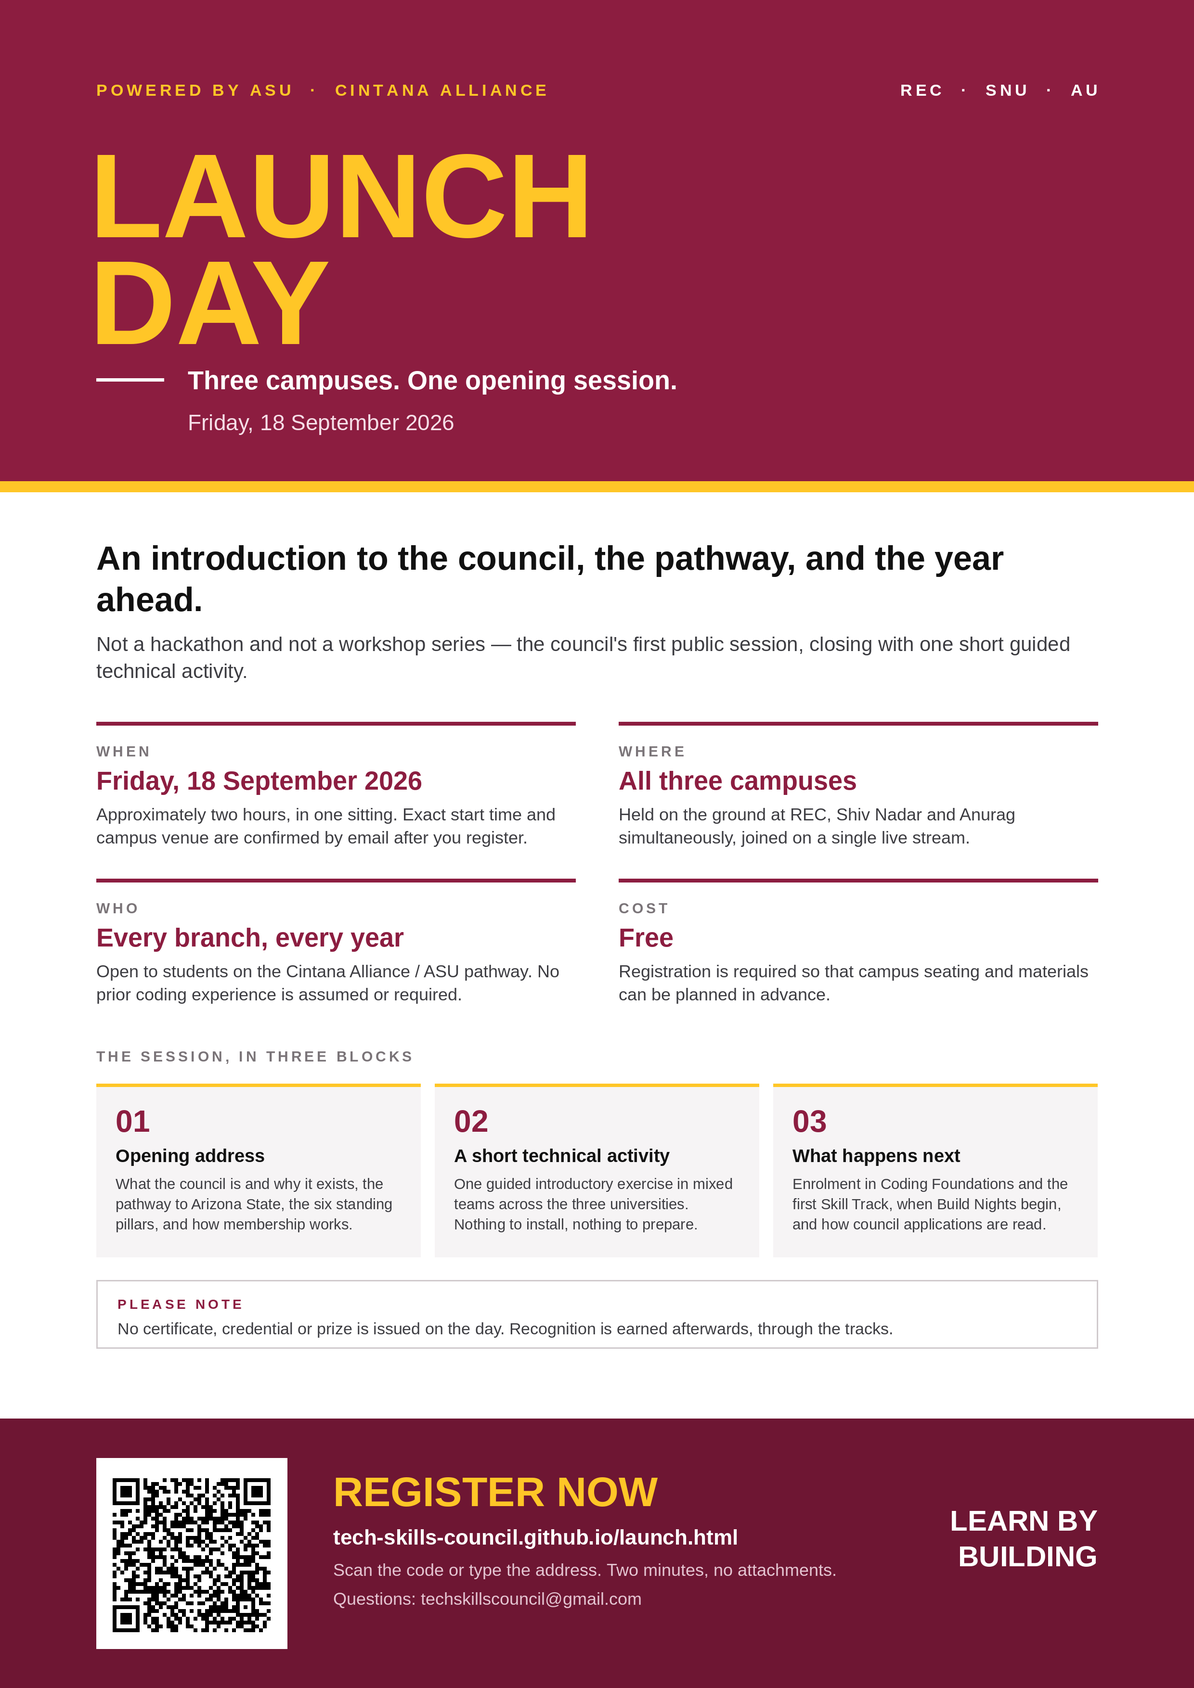
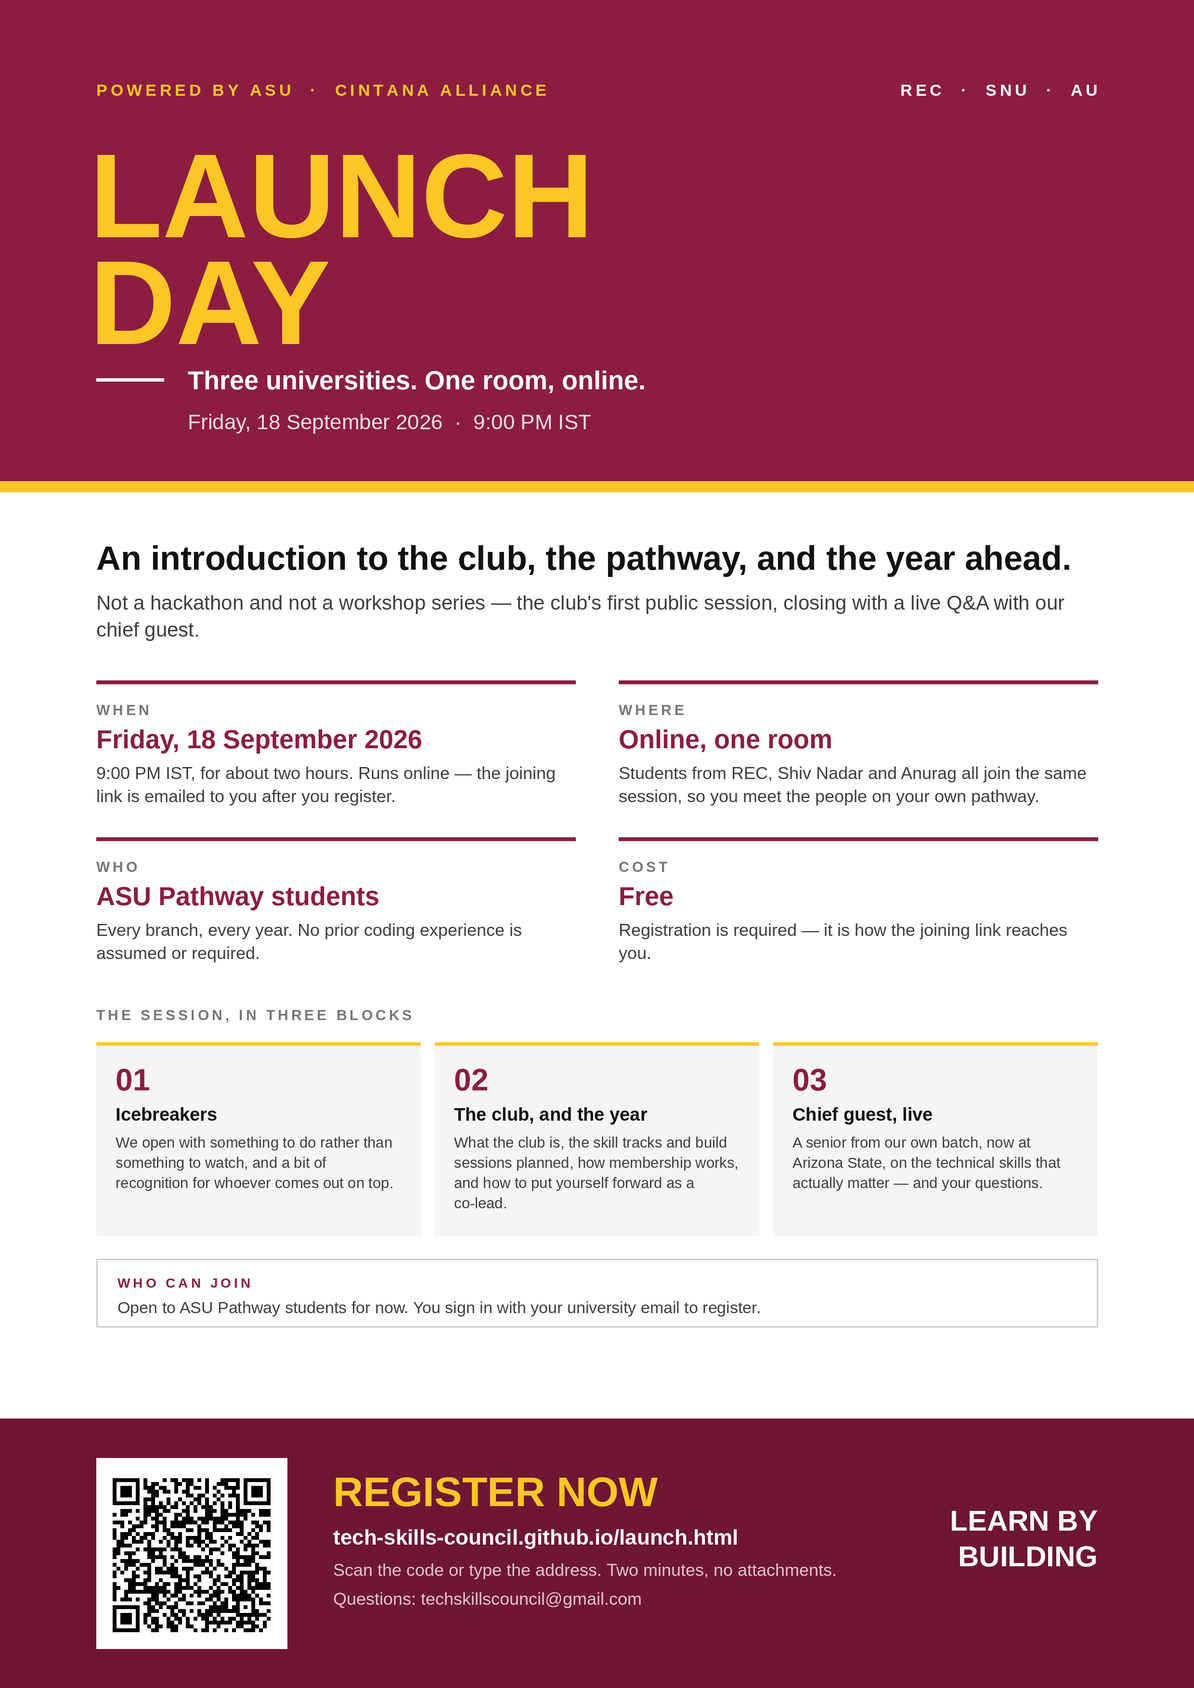
Correct the orientation: online at 9 PM, not three campuses in person
The site described a different event from the one being run. It said the
opening session was held "on the ground at REC, Shiv Nadar and Anurag
simultaneously", asked whether you could bring a laptop, asked about
dietary needs for refreshments, and promised a campus venue by email.

The session is fully online, Friday 18 September at 9:00 PM IST, on a
single call. Registrations open today, so a student reading the old copy
would have planned to walk into a campus building at 9 PM.

Corrected across the landing page, the registration page, the thank-you
page and the poster:
- "held at three campuses at once" -> online, one room, three universities
- the three blocks now match the actual run of show: icebreakers, the
  club and the year ahead, then a live Q&A with the chief guest
- removed the laptop and refreshments questions, which only make sense
  for an in-person event
- venue-by-email copy replaced with joining-link-by-email
- start time surfaced (9:00 PM IST) instead of being unstated
- poster regenerated from the generator; QR verified to still resolve

The joining link is deliberately not published anywhere on the site — it
goes out by email after registration, which is what makes the pathway
restriction meaningful.

Claude-Session: https://claude.ai/code/session_01WunSvQ44yq1B1vofqLx1dA

Changed region(s): [[0.0621, 0.3107, 0.9004, 0.8079], [0.1863, 0.2175, 0.5589, 0.2796], [0.652, 0.6214, 0.9004, 0.7457]]

diff --git a/launch.html b/launch.html
@@ -4,11 +4,11 @@
 <meta charset="utf-8">
 <meta name="viewport" content="width=device-width, initial-scale=1">
 <meta http-equiv="Content-Security-Policy" content="default-src 'self'; base-uri 'self'; object-src 'none'; img-src 'self' data:; style-src 'self' 'unsafe-inline' https://fonts.googleapis.com; font-src 'self' https://fonts.gstatic.com; script-src 'self' 'unsafe-inline' https://challenges.cloudflare.com; frame-src https://challenges.cloudflare.com; connect-src 'self' https://*.supabase.co https://challenges.cloudflare.com; form-action 'self'">
-<title>Register for Launch Day — Tech &amp; Skills Council</title>
-<meta name="description" content="Register for TSC Launch Day — the council's opening session, held live across three campuses. An opening address and one short guided technical activity. Open to every branch, no coding experience assumed.">
+<title>Register for Orientation — Tech &amp; Skills Council</title>
+<meta name="description" content="Register for the Tech &amp; Skills Club orientation — online, Friday 18 September, 9:00 PM IST. Open to ASU Pathway students at REC, Shiv Nadar and Anurag. No experience assumed.">
 <meta name="theme-color" content="#8C1D40">
-<meta property="og:title" content="Launch Day — Tech &amp; Skills Council">
-<meta property="og:description" content="The council's opening session, held live across three campuses. Friday, 18 September 2026.">
+<meta property="og:title" content="Orientation — Tech &amp; Skills Council">
+<meta property="og:description" content="The club's opening session, online. Friday, 18 September 2026, 9:00 PM IST.">
 <meta property="og:type" content="website">
 <meta property="og:image" content="https://tech-skills-council.github.io/assets/img/posters/tsc-launch-day-poster.png">
 <meta property="og:url" content="https://tech-skills-council.github.io/launch.html">
@@ -35,7 +35,7 @@
     </a>
     <div class="nav-links">
       <a href="index.html#programme">Programme</a>
-      <a href="index.html#launch">Launch Day</a>
+      <a href="index.html#launch">Orientation</a>
       <a href="index.html#faq">FAQ</a>
       <a class="btn" href="council.html">Join the council</a>
     </div>
@@ -46,16 +46,16 @@
   <div class="wrap">
     <div class="hero-tag">
       <span class="tag solid">Powered by ASU · Cintana Alliance</span>
-      <span class="tag gold">Launch Day</span>
+      <span class="tag gold">Orientation</span>
       <span class="tag">REC · SNU · AU</span>
     </div>
     <h1 class="hero-title" style="font-size:clamp(42px,8vw,88px)">Register</h1>
     <p class="hero-lede">
-      Two minutes to register. Launch Day is the council's opening session — roughly two hours at your own
-      campus, live with the other two: what the council is, what it runs this year, and one short guided
-      technical activity. Nothing to prepare, nothing to install.
+      Two minutes to register. Orientation is the club's opening session — held online, so students from
+      all three universities are in the same room: what the club is, what it runs this year, and a live
+      Q&amp;A with a chief guest studying at Arizona State. Nothing to prepare, nothing to install.
     </p>
-    <p class="hero-note" id="date-note">Date and venues are announced by email as soon as they are confirmed.</p>
+    <p class="hero-note" id="date-note">Online. The joining link is emailed to you after you register.</p>
   </div>
 </header>
 
@@ -82,7 +82,7 @@
         <div class="field">
           <label for="email">Email <span class="req">*</span></label>
           <input id="email" name="email" type="email" autocomplete="email" required>
-          <span class="hint">Use the address you actually check — your venue and joining link both go here.</span>
+          <span class="hint">Use the address you actually check — the joining link goes here.</span>
           <span class="err">Enter a valid email address.</span>
         </div>
 
@@ -94,7 +94,7 @@
             <option value="SNU">Shiv Nadar University (SNU)</option>
             <option value="AU">Anurag University (AU)</option>
           </select>
-          <span class="err">Select your university — this determines which campus you attend.</span>
+          <span class="err">Select your university.</span>
         </div>
 
         <div class="field">
@@ -112,7 +112,7 @@
 
         <div class="field">
           <label for="branch">Branch or major <span class="req">*</span></label>
-          <input id="branch" name="branch" type="text" placeholder="Any branch — this is not a CS-only council" required>
+          <input id="branch" name="branch" type="text" placeholder="Any branch — this is not a CS-only club" required>
           <span class="err">Enter your branch or major.</span>
         </div>
 
@@ -123,13 +123,13 @@
             <option value="yes">Yes</option>
             <option value="no">No</option>
           </select>
-          <span class="hint">Membership is open to students on an active pathway — a "no" won't block Launch Day itself, but it helps us route you correctly.</span>
+          <span class="hint">Orientation is open to ASU Pathway students for now, so this needs to be a yes.</span>
           <span class="err">Let us know whether you're on the ASU / Cintana pathway.</span>
         </div>
       </fieldset>
 
       <fieldset>
-        <legend>The day itself</legend>
+        <legend>The session</legend>
 
         <div class="field">
           <label for="experience">Where are you starting from?</label>
@@ -138,22 +138,7 @@
             <option value="some">A little — I've written some code</option>
             <option value="comfortable">Comfortable — I build things already</option>
           </select>
-          <span class="hint">No wrong answer, and it does not affect your place. It only helps us pitch the activity and the first Coding Foundations session correctly.</span>
-        </div>
-
-        <div class="field">
-          <div class="checkline">
-            <input id="bringing_laptop" name="bringing_laptop" type="checkbox" checked>
-            <label for="bringing_laptop">
-              I can bring a laptop
-            </label>
-          </div>
-          <span class="hint">If you cannot, please say so — you will be paired with someone who can.</span>
-        </div>
-
-        <div class="field">
-          <label for="dietary">Anything we should know for refreshments?</label>
-          <input id="dietary" name="dietary" type="text" maxlength="120" placeholder="Optional — allergies, preferences">
+          <span class="hint">No wrong answer, and it does not affect your place. It only helps us pitch the sessions correctly.</span>
         </div>
 
         <div class="field">
@@ -215,7 +200,7 @@
     <div class="f-col">
       <h5>Council</h5>
       <a href="index.html#programme">Programme</a>
-      <a href="index.html#launch">Launch Day</a>
+      <a href="index.html#launch">Orientation</a>
       <a href="index.html#tiers">Membership</a>
       <a href="council.html">Apply to the council</a>
     </div>
@@ -240,7 +225,7 @@
     if (cfg.LAUNCH_DATE_LABEL) {
       document.getElementById('date-note').textContent =
         cfg.LAUNCH_DATE_LABEL + (cfg.LAUNCH_TIME_LABEL ? ' · ' + cfg.LAUNCH_TIME_LABEL : '') +
-        ' — venue confirmed by email closer to the date.';
+        ' — online. The joining link is emailed to you after you register.';
     }
   })();
 </script>

diff --git a/index.html b/index.html
@@ -173,11 +173,11 @@
       <div>
         <div class="sec-head reveal">
           <span class="eyebrow">03 — First event</span>
-          <h2>Launch Day</h2>
+          <h2>Orientation</h2>
           <p>
-            The council's opening session, held at three campuses at once on a single stream. It sets out
-            what the council is, what it will run this year, and closes with a short guided technical
-            activity so the working format is clear from the outset.
+            The club's opening session, held online so that students at all three universities join the
+            same room. It sets out what the club is and what it will run this year, and closes with a
+            live Q&amp;A with a chief guest currently studying at Arizona State.
           </p>
         </div>
 
@@ -185,22 +185,22 @@
           <div class="beat">
             <div class="t">Block 01</div>
             <div class="c">
-              <h4>Opening address</h4>
-              <p>What the council is and why it exists, the Cintana Alliance pathway to Arizona State, the six standing pillars, how membership and the three tiers work — followed by open questions from all three rooms.</p>
+              <h4>Icebreakers</h4>
+              <p>We open with something to do rather than something to watch — a few short interactive rounds to get the room talking, with a bit of recognition for whoever comes out on top.</p>
             </div>
           </div>
           <div class="beat">
             <div class="t">Block 02</div>
             <div class="c">
-              <h4>A short technical activity</h4>
-              <p>One guided introductory exercise, run in mixed teams across REC, SNU and Anurag. Nothing to prepare, nothing to install and no prior experience assumed — it is a first look at how Build Nights and Skill Tracks are run, not a competition.</p>
+              <h4>The club, and the year ahead</h4>
+              <p>What the club is and why it exists, the skill tracks and build sessions planned for the year, how membership works, and how to put yourself forward for a co-lead seat.</p>
             </div>
           </div>
           <div class="beat">
             <div class="t">Block 03</div>
             <div class="c">
-              <h4>What happens next</h4>
-              <p>How to enrol in Coding Foundations and the first Skill Track cohort, when weekly Build Nights begin, how council applications are assessed, and where everything lives afterwards.</p>
+              <h4>Chief guest — live Q&amp;A</h4>
+              <p>A senior from our own batch, now studying at Arizona State, on the technical side of getting there: the skills that actually matter, how to prepare, and the questions nobody gives you a straight answer to.</p>
             </div>
           </div>
         </div>
@@ -209,22 +209,22 @@
       <div>
         <div class="stat-row reveal">
           <div class="stat stat-wide"><div class="k k-date" id="launch-date">To be announced</div><div class="v">Date</div></div>
-          <div class="stat"><div class="k" id="launch-duration">~2 hrs</div><div class="v">One sitting</div></div>
-          <div class="stat"><div class="k">3</div><div class="v">Campuses, live</div></div>
+          <div class="stat"><div class="k" id="launch-time">9:00 PM</div><div class="v">IST, online</div></div>
+          <div class="stat"><div class="k">3</div><div class="v">Universities, one room</div></div>
           <div class="stat"><div class="k">Free</div><div class="v">Registration required</div></div>
         </div>
 
         <div style="margin-top:26px" class="reveal">
           <h3 style="font-size:19px;margin-bottom:14px">What to expect</h3>
           <ul class="ticks">
-            <li><b>An introduction, not an initiation</b> — the session is about the council and the year ahead.</li>
-            <li><b>One short guided activity</b>, run in mixed teams across the three universities.</li>
+            <li><b>Fully online</b> — the joining link is emailed to you after you register.</li>
+            <li><b>ASU Pathway students only</b>, for now — you sign in with your university email to register.</li>
             <li><b>No prerequisites</b> — nothing to install, nothing to prepare, no experience assumed.</li>
             <li><b>The people on your route</b> — students on the same pathway at two other universities.</li>
           </ul>
           <p class="fineprint">
-            Launch Day is an introductory session. No certificate, credential or prize is issued on the day —
-            recognition is earned afterwards, through Skill Track projects and council work.
+            Orientation is an introductory session. No certificate or prize is issued on the day —
+            recognition is earned afterwards, through project work and club activity.
           </p>
         </div>
       </div>
@@ -455,7 +455,7 @@
     <div class="posters">
       <div class="poster reveal">
         <a href="assets/img/posters/tsc-launch-day-poster.png" download>
-          <img src="assets/img/posters/tsc-launch-day-poster.png" alt="Launch Day poster — three campuses, one opening session" width="2480" height="3508" loading="lazy" decoding="async">
+          <img src="assets/img/posters/tsc-launch-day-poster.png" alt="Orientation poster — online, Friday 18 September, 9:00 PM" width="2480" height="3508" loading="lazy" decoding="async">
         </a>
         <div class="cap">
           <h4>Launch Day</h4>

diff --git a/thanks.html b/thanks.html
@@ -57,7 +57,7 @@
       <h2 id="next-head" style="font-size:clamp(26px,4vw,38px)">While you wait</h2>
     </div>
     <div class="grid-3" id="next-cells">
-      <div class="cell"><span class="num">01</span><h3>Check your inbox</h3><p>The council reviews submissions by hand and reaches out from <b style="color:var(--gold);font-weight:400">techskillscouncil@gmail.com</b> — check your spam folder if you don't hear back in a few days.</p></div>
+      <div class="cell"><span class="num">01</span><h3>Check your inbox</h3><p>The council reviews submissions by hand and reaches out from <b style="color:var(--gold);font-weight:400">techskillscouncil@gmail.com</b> — the joining link comes from there, so check your spam folder if you don't see it.</p></div>
       <div class="cell"><span class="num">02</span><h3>No need to resubmit</h3><p>One submission per email address is all that's needed. Submitting again won't move you up any list.</p></div>
       <div class="cell"><span class="num">03</span><h3>Bring someone along</h3><p>If a friend on the same pathway hasn't applied yet, this is the moment — the founding cohort is still forming.</p></div>
     </div>
@@ -149,12 +149,12 @@
       ledeEl.textContent = 'Your Launch Day registration is in' +
         (email ? ', ' + email : '') + '. ' +
         (when
-          ? 'Launch Day is ' + when + ' — your campus venue is confirmed by email closer to the date.'
+          ? 'Orientation is ' + when + (cfg.LAUNCH_TIME_LABEL ? ', ' + cfg.LAUNCH_TIME_LABEL : '') + '. It runs online — the joining link is emailed to you before the session.'
           : 'Date and venue go out by email as soon as they are confirmed.');
       tagEl.textContent = 'Registered';
       nextHead.textContent = when ? 'Before the day' : 'While you wait for the date';
       if (noteEl) {
-        noteEl.textContent = 'Roughly two hours. Nothing to prepare, nothing to install.';
+        noteEl.textContent = 'Online, roughly two hours. Nothing to prepare, nothing to install.';
       }
     }
   })();

diff --git a/config.js b/config.js
@@ -24,9 +24,13 @@ window.TSC_CONFIG = {
   LAUNCH_DATE_SHORT: '18 Sep 2026',
 
   // Start time, e.g. '2:00 PM'. Empty until confirmed.
-  LAUNCH_TIME_LABEL: '',
+  LAUNCH_TIME_LABEL: '9:00 PM IST',
 
   // How long the session runs, as displayed. Launch Day is an opening
   // session plus one short guided activity — not a full-day build.
-  LAUNCH_DURATION_LABEL: '~2 hrs'
+  LAUNCH_DURATION_LABEL: '~2 hrs',
+
+  // Fully online. The joining link is emailed after registration — it is
+  // deliberately NOT published, so only registered pathway students get in.
+  LAUNCH_FORMAT: 'online'
 };

diff --git a/tools/make_launch_poster.py b/tools/make_launch_poster.py
@@ -111,29 +111,28 @@ EMAIL = "techskillscouncil@gmail.com"
 
 FACTS = [
     ("When", DATE_LINE,
-     "Approximately two hours, in one sitting. Exact start time and campus "
-     "venue are confirmed by email after you register."),
-    ("Where", "All three campuses",
-     "Held on the ground at REC, Shiv Nadar and Anurag simultaneously, "
-     "joined on a single live stream."),
-    ("Who", "Every branch, every year",
-     "Open to students on the Cintana Alliance / ASU pathway. No prior "
-     "coding experience is assumed or required."),
+     "9:00 PM IST, for about two hours. Runs online — the joining link is "
+     "emailed to you after you register."),
+    ("Where", "Online, one room",
+     "Students from REC, Shiv Nadar and Anurag all join the same session, "
+     "so you meet the people on your own pathway."),
+    ("Who", "ASU Pathway students",
+     "Every branch, every year. No prior coding experience is assumed or "
+     "required."),
     ("Cost", "Free",
-     "Registration is required so that campus seating and materials can be "
-     "planned in advance."),
+     "Registration is required — it is how the joining link reaches you."),
 ]
 
 BLOCKS = [
-    ("01", "Opening address",
-     "What the council is and why it exists, the pathway to Arizona State, "
-     "the six standing pillars, and how membership works."),
-    ("02", "A short technical activity",
-     "One guided introductory exercise in mixed teams across the three "
-     "universities. Nothing to install, nothing to prepare."),
-    ("03", "What happens next",
-     "Enrolment in Coding Foundations and the first Skill Track, when Build "
-     "Nights begin, and how council applications are read."),
+    ("01", "Icebreakers",
+     "We open with something to do rather than something to watch, and a "
+     "bit of recognition for whoever comes out on top."),
+    ("02", "The club, and the year",
+     "What the club is, the skill tracks and build sessions planned, how "
+     "membership works, and how to put yourself forward as a co-lead."),
+    ("03", "Chief guest, live",
+     "A senior from our own batch, now at Arizona State, on the technical "
+     "skills that actually matter — and your questions."),
 ]
 
 
@@ -162,12 +161,12 @@ def build():
     # Rule + standfirst.
     y = 760
     d.rectangle([MARGIN, y + 26, MARGIN + 140, y + 32], fill=WHITE)
-    d.text((MARGIN + 190, y), "Three campuses. One opening session.",
+    d.text((MARGIN + 190, y), "Three universities. One room, online.",
            font=f(BOLD, 54), fill=WHITE)
 
     # Date, stated once, loudly, in the masthead where it cannot be missed.
     y = 852
-    d.text((MARGIN + 190, y), DATE_LINE, font=f(REG, 46), fill=(246, 222, 231))
+    d.text((MARGIN + 190, y), DATE_LINE + "  ·  9:00 PM IST", font=f(REG, 44), fill=(246, 222, 231))
 
     # Gold seam under the masthead.
     d.rectangle([0, head_h, W, head_h + 22], fill=GOLD)
@@ -176,15 +175,15 @@ def build():
     y = head_h + 120
     fl = f(BOLD, 70)
     for line in wrap(d,
-                     "An introduction to the council, the pathway, and the "
-                     "year ahead.", fl, W - 2 * MARGIN):
+                     "An introduction to the club, the pathway, and the year "
+                     "ahead.", fl, W - 2 * MARGIN):
         d.text((MARGIN, y), line, font=fl, fill=INK)
         y += 86
 
     y += 22
     y = para(d, (MARGIN, y),
-             "Not a hackathon and not a workshop series — the council's first "
-             "public session, closing with one short guided technical activity.",
+             "Not a hackathon and not a workshop series — the club's first "
+             "public session, closing with a live Q&A with our chief guest.",
              f(REG, 42), BODY, W - 2 * MARGIN, 56)
 
     # ---------- fact grid (2 x 2) ---------------------------------------
@@ -235,13 +234,13 @@ def build():
     y += bh + 48
 
     # ---------- honesty strip -------------------------------------------
-    note_txt = ("No certificate, credential or prize is issued on the day. "
-                "Recognition is earned afterwards, through the tracks.")
+    note_txt = ("Open to ASU Pathway students for now. You sign in with your "
+                "university email to register.")
     fnote = f(REG, 34)
     strip_h = 96 + para_h(d, note_txt, fnote, W - 2 * MARGIN - 88, 46)
     d.rectangle([MARGIN, y, W - MARGIN, y + strip_h], fill=WHITE,
                 outline=RULE, width=3)
-    text(d, (MARGIN + 44, y + 34), "PLEASE NOTE", f(BOLD, 28), MAROON, tracking=6)
+    text(d, (MARGIN + 44, y + 34), "WHO CAN JOIN", f(BOLD, 28), MAROON, tracking=6)
     para(d, (MARGIN + 44, y + 82), note_txt, fnote, BODY,
          W - 2 * MARGIN - 88, 46)
     content_bottom = y + strip_h
